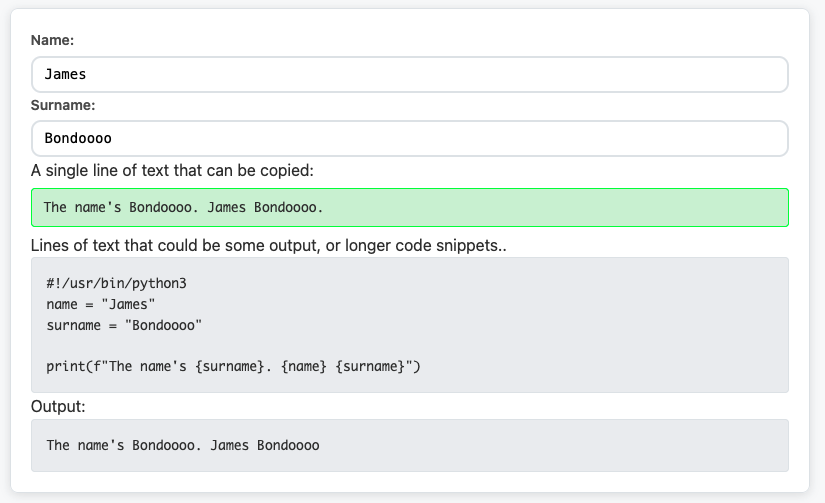
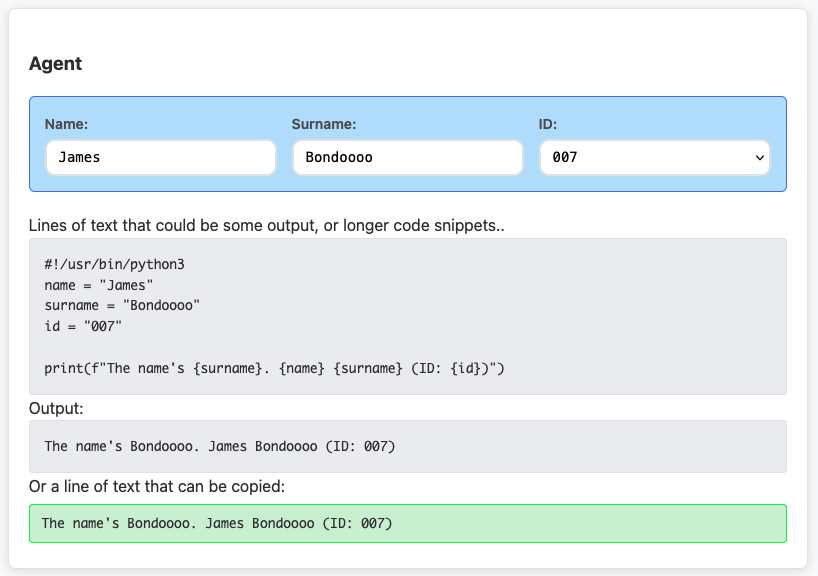
Add select option

Changed region(s): [[0.0306, 0.0596, 0.978, 0.6561], [0.0306, 0.6859, 0.978, 0.9841]]

diff --git a/index.html b/index.html
@@ -4,8 +4,8 @@
     <meta charset="UTF-8">
     <meta name="viewport" content="width=device-width, initial-scale=1.0">
     <title>Command Guide Widget - Example</title>
-    <!-- <script src="dist/command-guide-amplified.js"></script> -->
-    <script src="https://unpkg.com/command-guide-amplified/dist/command-guide-amplified.min.js"></script>
+    <script src="dist/command-guide-amplified.js"></script>
+    <!-- <script src="https://unpkg.com/command-guide-amplified/dist/command-guide-amplified.min.js"></script> -->
     <link rel="stylesheet" href="styles.css">
    
 </head>
@@ -28,7 +28,11 @@
                     </div>
                     <div class="cga-variable">
                         <label>Environment:</label>
-                        <input type="text" class="cga-var-ENV" value="prod">
+                        <select class="cga-var-ENV">
+                            <option value="DEV">DEV</option>
+                            <option value="STAGING">STAGING</option>
+                            <option value="PROD">PROD</option>
+                        </select>
                     </div>
                 </div>
                 
@@ -182,30 +186,43 @@ session.close()</div>
         </section>
 
         <div class="cga-widget" id="my-guide">
+            <h3>Agent</h3>
     
             <!-- Add your variables -->
-            <div class="cga-variable">
-                <label>Name:</label>
-                <input type="text" class="cga-var-NAME" value="James">
-            </div>
-            <div class="cga-variable">
-                <label>Surname:</label>
-                <input type="text" class="cga-var-SURNAME" value="Bond">
+            <div class="cga-variables">
+                <div class="cga-variable">
+                    <label>Name:</label>
+                    <input type="text" class="cga-var-NAME" value="James">
+                </div>
+                <div class="cga-variable">
+                    <label>Surname:</label>
+                    <input type="text" class="cga-var-SURNAME" value="Bond">
+                </div>
+                <div class="cga-variable">
+                    <label>ID:</label>
+                    <select class="cga-var-ID">
+                        <option value="007">007</option>
+                        <option value="008">008</option>
+                        <option value="009">009</option>
+                    </select>
+                </div>
             </div>
         
             <!-- Add your commands or text with placeholders -->
-            A single line of text that can be copied:
-            <div class="cga-command">The name's {SURNAME}. {NAME} {SURNAME}.</div>
         
             Lines of text that could be some output, or longer code snippets..
             <div class="cga-text">#!/usr/bin/python3
 name = "{NAME}"
 surname = "{SURNAME}"
+id = "{ID}"
 
-print(f"The name's {surname}. {name} {surname}")</div>
+print(f"The name's {surname}. {name} {surname} (ID: {id})")</div>
         
             Output:
-            <div class="cga-text">The name's {SURNAME}. {NAME} {SURNAME}</div>
+            <div class="cga-text">The name's {SURNAME}. {NAME} {SURNAME} (ID: {ID})</div>
+
+            Or a line of text that can be copied:
+            <div class="cga-command">The name's {SURNAME}. {NAME} {SURNAME} (ID: {ID})</div>
         </div>
 
     <script>

diff --git a/src/command-guide-amplified.ts b/src/command-guide-amplified.ts
@@ -100,8 +100,8 @@ export function init(containerId: string): CommandGuideAmplifiedWidgetInstance |
   // Keep the first one for backward compatibility
   const originalTemplate = originalTemplates[0] || '';
   
-  // Find all variable inputs
-  const variableInputs = container.querySelectorAll('input[class*="cga-var-"]') as NodeListOf<HTMLInputElement>;
+  // Find all variable inputs (both input and select elements)
+  const variableInputs = container.querySelectorAll('input[class*="cga-var-"], select[class*="cga-var-"]') as NodeListOf<HTMLInputElement | HTMLSelectElement>;
   
   // Function to update the text with current variable values
   function updateText(): void {
@@ -118,7 +118,7 @@ export function init(containerId: string): CommandGuideAmplifiedWidgetInstance |
         if (varClass) {
           variableName = varClass.replace('cga-var-', '');
         } else {
-          variableName = input.name || input.placeholder || 'UNKNOWN';
+          variableName = input.name || (input as HTMLInputElement).placeholder || 'UNKNOWN';
         }
         
         const value = input.value || `{${variableName}}`;
@@ -153,7 +153,7 @@ export function init(containerId: string): CommandGuideAmplifiedWidgetInstance |
         if (varClass) {
           variableName = varClass.replace('cga-var-', '');
         } else {
-          variableName = input.name || input.placeholder || 'UNKNOWN';
+          variableName = input.name || (input as HTMLInputElement).placeholder || 'UNKNOWN';
         }
         
         const value = input.value || `{${variableName}}`;
@@ -247,9 +247,13 @@ export function init(containerId: string): CommandGuideAmplifiedWidgetInstance |
   
   // Add event listeners to all variable inputs
   variableInputs.forEach((input) => {
-    input.addEventListener('input', updateText);
-    input.addEventListener('change', updateText);
-    input.addEventListener('keyup', updateText);
+    if (input.tagName === 'INPUT') {
+      input.addEventListener('input', updateText);
+      input.addEventListener('change', updateText);
+      input.addEventListener('keyup', updateText);
+    } else if (input.tagName === 'SELECT') {
+      input.addEventListener('change', updateText);
+    }
   });
   
   // Store original text for cga-command elements before any updates
@@ -280,7 +284,7 @@ export function init(containerId: string): CommandGuideAmplifiedWidgetInstance |
         if (varClass) {
           variableName = varClass.replace('cga-var-', '');
         } else {
-          variableName = input.name || input.placeholder || 'UNKNOWN';
+          variableName = input.name || (input as HTMLInputElement).placeholder || 'UNKNOWN';
         }
         variables[variableName] = input.value;
       });

diff --git a/styles.css b/styles.css
@@ -57,6 +57,22 @@ body {
     border-color: #84b4e8df;
 }
 
+.cga-variable select {
+    padding: 8px 12px;
+    border: 2px solid #e1e5e9;
+    border-radius: 10px;
+    font-size: 14px;
+    transition: border-color 0.2s;
+    font-family: 'JetBrains Mono', monospace;
+    background: white;
+    cursor: pointer;
+}
+
+.cga-variable select:focus {
+    outline: none;
+    border-color: #84b4e8df;
+}
+
 .cga-text {
     background: #e9ebedd7;
     border: 1px solid #e1e5e9;
